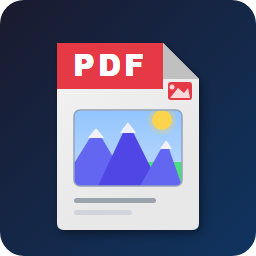
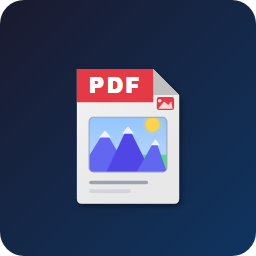
.

diff --git a/Jellyfin.Plugin.Pdf/Configuration/configPage.html b/Jellyfin.Plugin.Pdf/Configuration/configPage.html
@@ -61,8 +61,10 @@
             .addEventListener('pagebeforeshow', function () {
                 Dashboard.showLoadingMsg();
                 ApiClient.getPluginConfiguration(PdfThumbnailsConfig.pluginUniqueId).then(function (config) {
-                    document.querySelector('#RenderResolutionDpi').value = (config.RenderResolutionDpi != null) ? config.RenderResolutionDpi : 150;
-                    document.querySelector('#ThumbnailPaddingMode').value = (config.ThumbnailPaddingMode != null) ? config.ThumbnailPaddingMode : 0;
+                    var dpi = (config.RenderResolutionDpi != null) ? config.RenderResolutionDpi : config.renderResolutionDpi;
+                    var padding = (config.ThumbnailPaddingMode != null) ? config.ThumbnailPaddingMode : config.thumbnailPaddingMode;
+                    document.querySelector('#RenderResolutionDpi').value = (dpi != null) ? dpi : 150;
+                    document.querySelector('#ThumbnailPaddingMode').value = (padding != null) ? padding : 'White';
                     Dashboard.hideLoadingMsg();
                 });
             });
@@ -71,8 +73,10 @@
             .addEventListener('submit', function (e) {
                 Dashboard.showLoadingMsg();
                 ApiClient.getPluginConfiguration(PdfThumbnailsConfig.pluginUniqueId).then(function (config) {
-                    config.RenderResolutionDpi = parseInt(document.querySelector('#RenderResolutionDpi').value) || 150;
-                    config.ThumbnailPaddingMode = document.querySelector('#ThumbnailPaddingMode').value;
+                    var dpiKey = (config.RenderResolutionDpi !== undefined) ? 'RenderResolutionDpi' : 'renderResolutionDpi';
+                    var paddingKey = (config.ThumbnailPaddingMode !== undefined) ? 'ThumbnailPaddingMode' : 'thumbnailPaddingMode';
+                    config[dpiKey] = parseInt(document.querySelector('#RenderResolutionDpi').value) || 150;
+                    config[paddingKey] = document.querySelector('#ThumbnailPaddingMode').value;
                     ApiClient.updatePluginConfiguration(PdfThumbnailsConfig.pluginUniqueId, config).then(function () {
                         Dashboard.processPluginConfigurationUpdateResult();
                     });